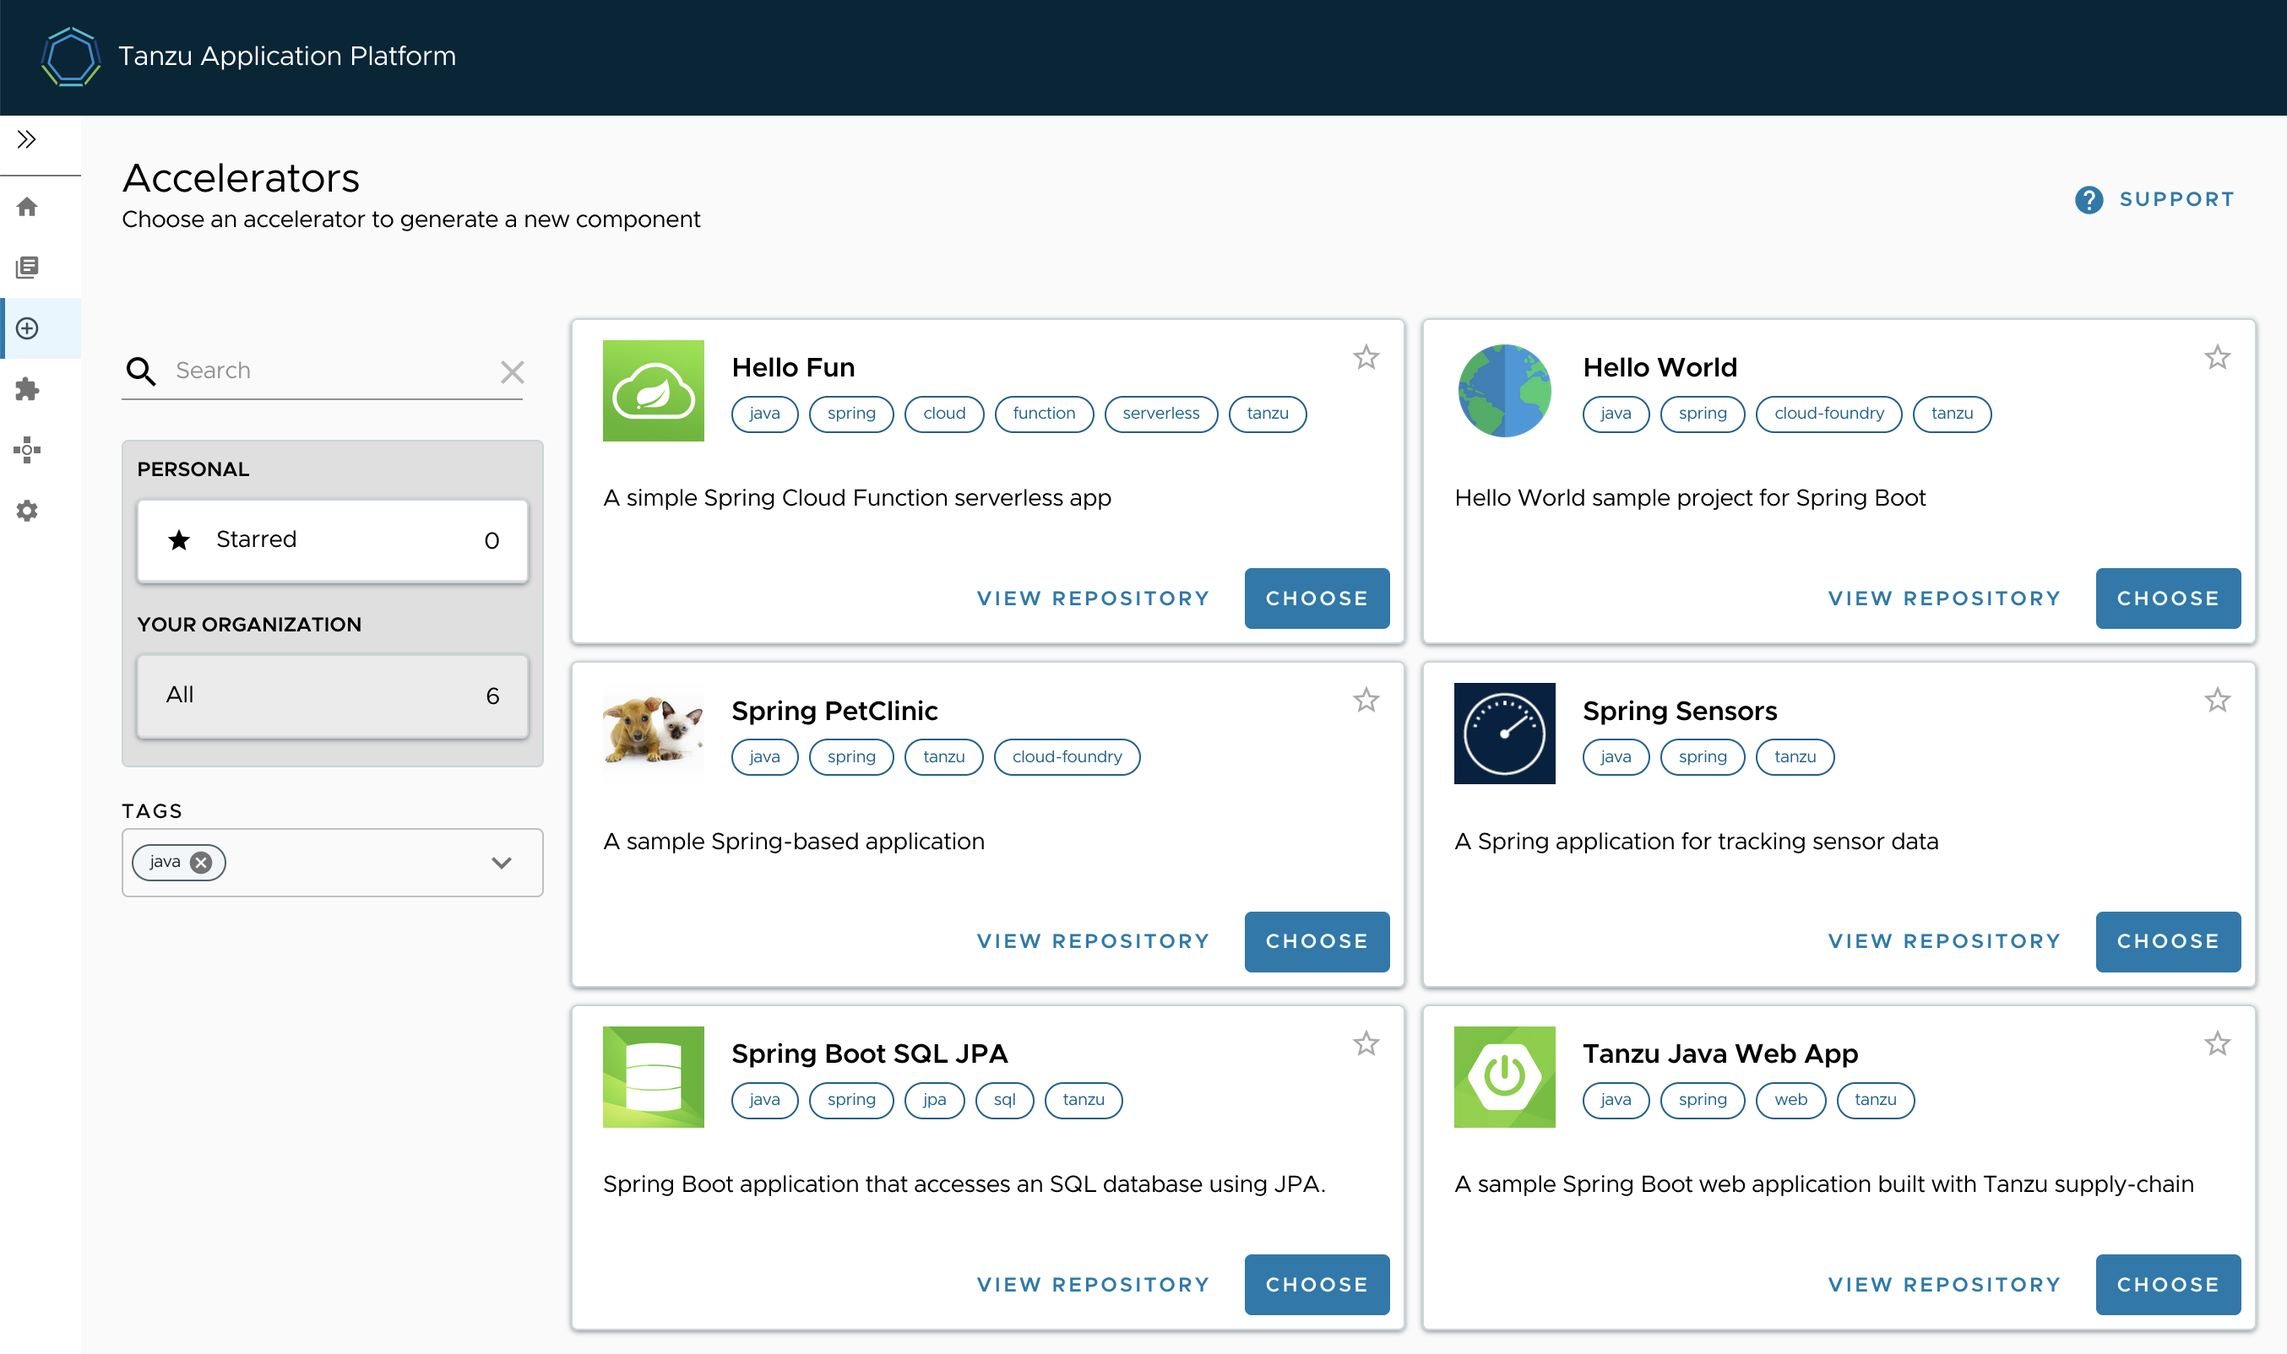
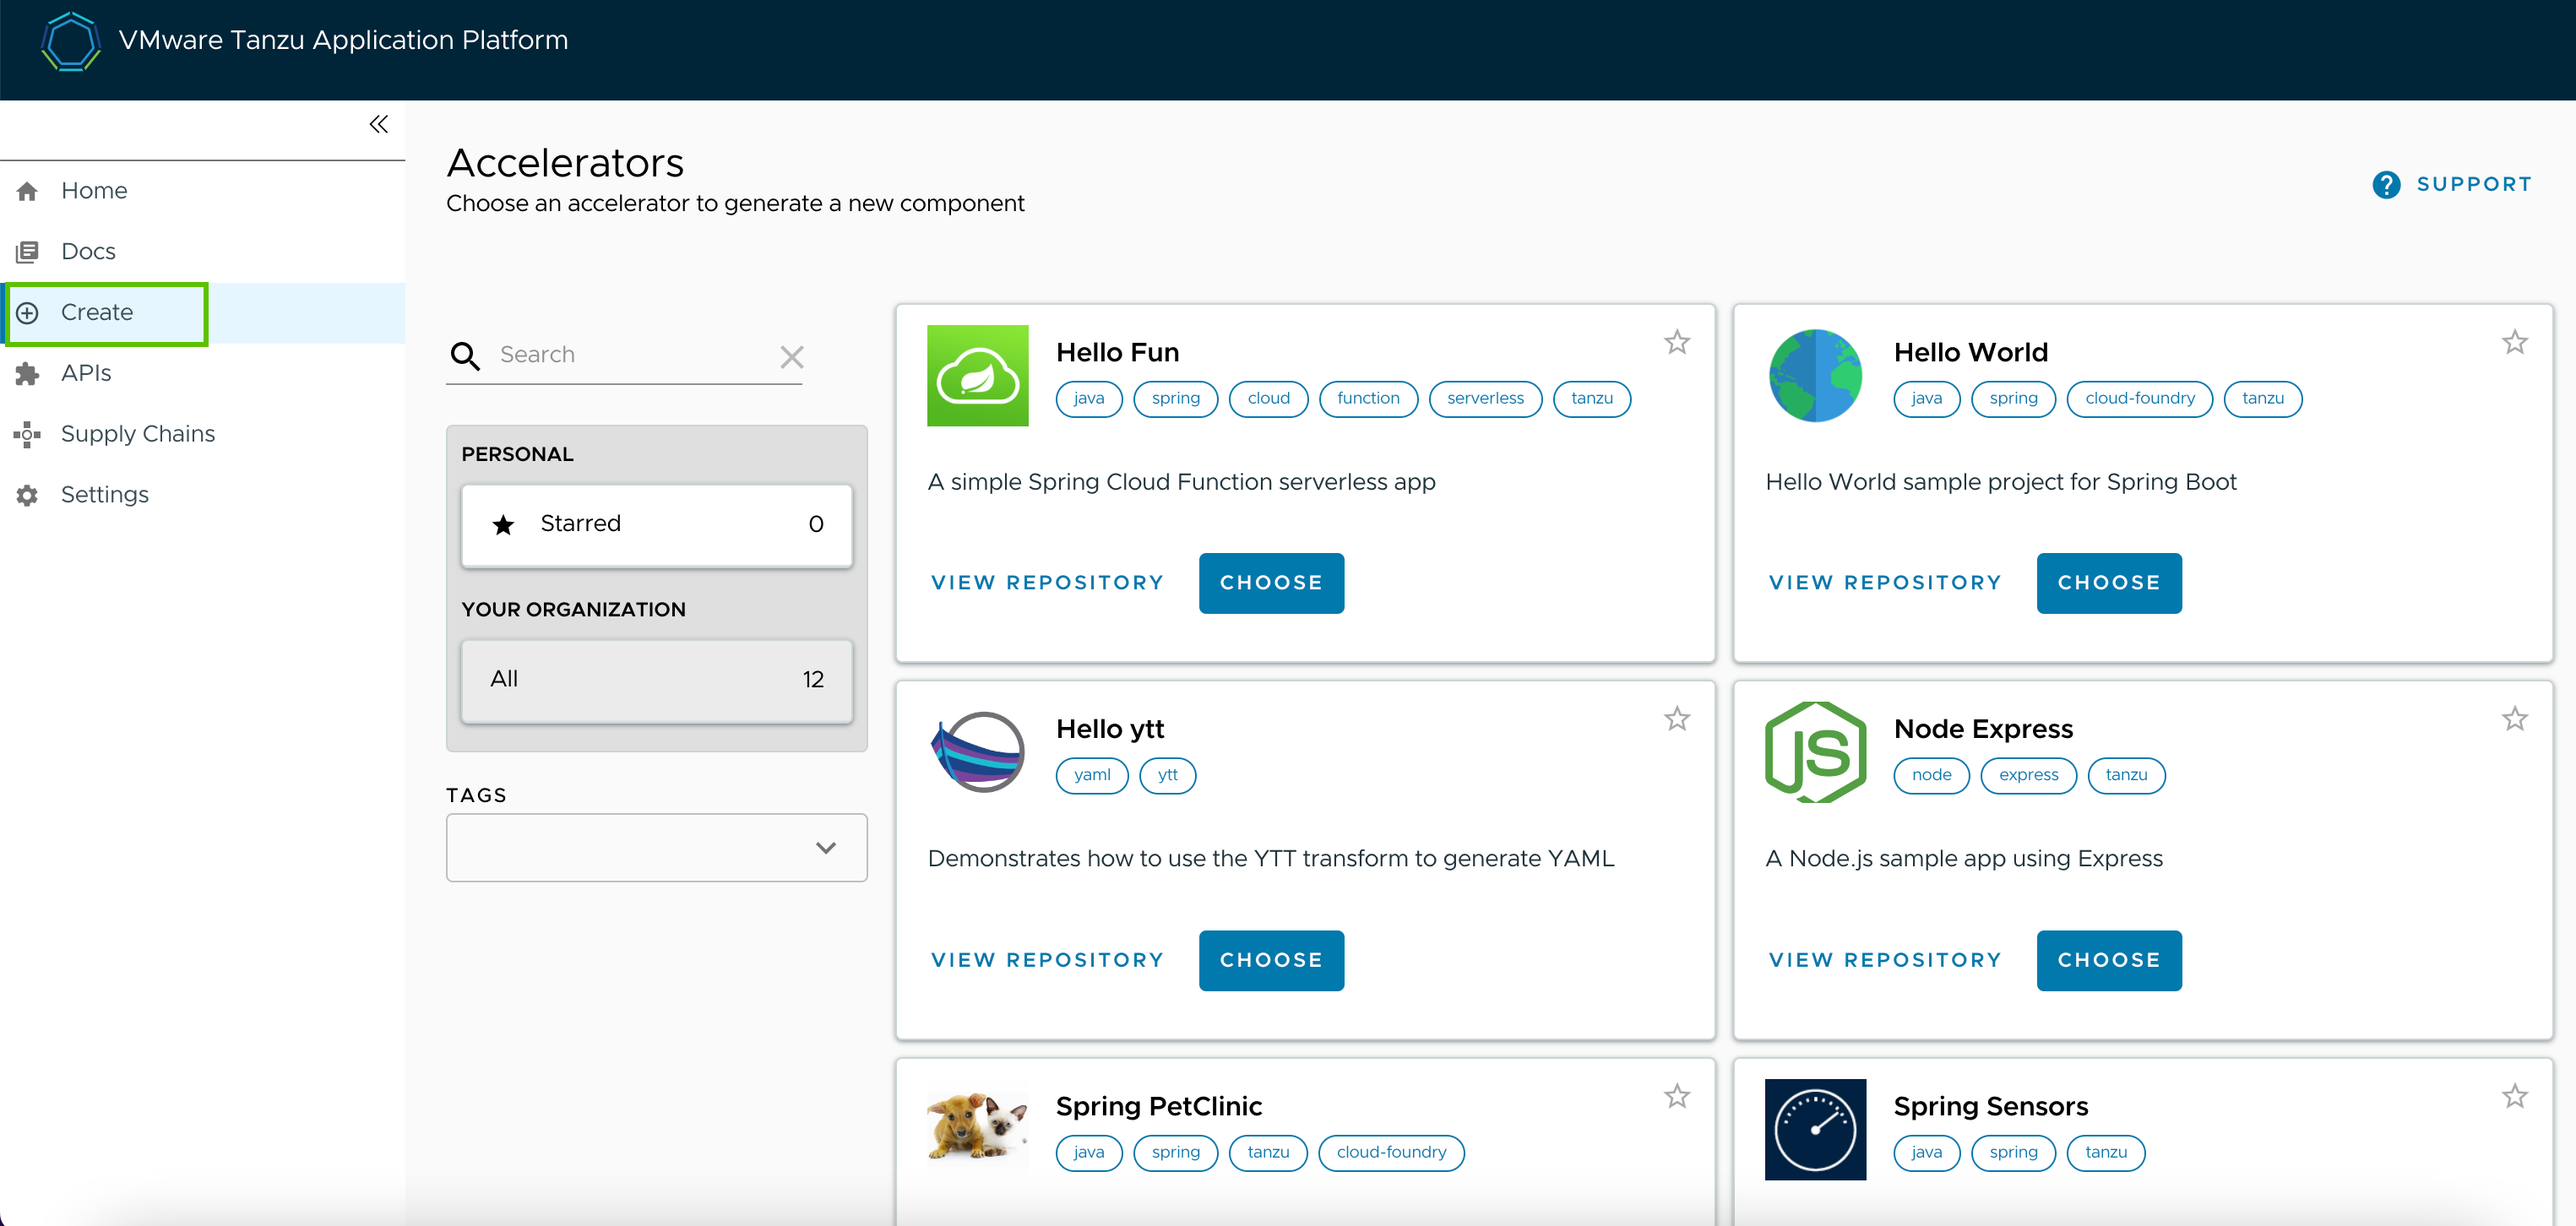
[#182590871] updated image, deleted useless images. Edited per updated UI.

diff --git a/getting-started/deploy-first-app.md b/getting-started/deploy-first-app.md
@@ -27,18 +27,12 @@ To deploy your application, you must download an accelerator, upload it on your 
 
 1. Locate the Tanzu Java Web App accelerator and click **CHOOSE**.
 
-    ![Tile for Tanzu Java Web App Getting Started GUI](../images/getting-started-tap-gui-2.png)
-
 1. In the **Generate Accelerators** dialog box, replace the default value `dev.local` in the **prefix for container image registry** field
    with the registry in the form of `SERVER-NAME/REPO-NAME`.
    The `SERVER-NAME/REPO-NAME` must match what was specified for `registry` as part of the installation values for `ootb_supply_chain_basic`. See the Full Profile section on [Installing Tanzu Application Platform package and profiles](../install.md.hbs#full-profile).
-   Click **NEXT STEP**, verify the provided information, and click **CREATE**.
-
-    ![Generate Accelerators prompt](../images/getting-started-tap-gui-3.png)
+   Click **NEXT**, verify the provided information, and click **GENERATE ACCELERATOR**.
 
 1. After the Task Activity processes complete, click **DOWNLOAD ZIP FILE**.
-
-    ![Task Activity progress bar](../images/getting-started-tap-gui-4.png)
 
 1. After downloading the ZIP file, expand it in a workspace directory and follow your preferred procedure for uploading the generated project files to a Git repository for your new project.
 
